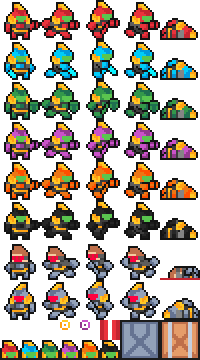
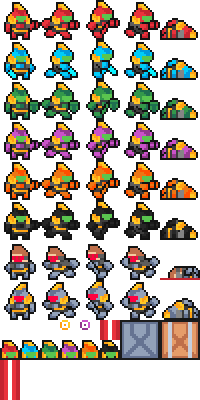
Added double beam

diff --git a/PhotonMan/src/sprites.java b/PhotonMan/src/sprites.java
@@ -19,8 +19,8 @@ public class sprites {
 	BufferedImage[] smallobj = new BufferedImage[5];
 	// 0 red 1 blue 2 green 3 purple 4 orange 5 black
 	BufferedImage[] icons = new BufferedImage[6];
-	// 0 metal box 1 wood box 2 laser
-	BufferedImage[] largeobj = new BufferedImage[3];
+	// 0 metal box 1 wood box 2 laser 3 double laser
+	BufferedImage[] largeobj = new BufferedImage[4];
 
 	public sprites() {
 		BufferedImage img = null;
@@ -47,6 +47,7 @@ public class sprites {
 		largeobj[0] = img.getSubimage(120, 320, 40, 40);
 		largeobj[1] = img.getSubimage(160, 320, 40, 40);
 		largeobj[2] = img.getSubimage(100, 320, 20, 20);
+		largeobj[3] = img.getSubimage(0, 360, 20, 40);
 		// chops up the sprite sheet into individual sprites then organizes them
 	}
 

diff --git a/PhotonMan/src/laser.java b/PhotonMan/src/laser.java
@@ -6,7 +6,7 @@ public class laser {
 
 	public laser(sprites sp, int x, int y) {
 		crateA = new crate(sp, x, y);
-		b = new beam(sp, x + 9, y + crateA.h + 2);
-		crateB = new crate(sp, x, b.y + b.h + 2);
+		b = new beam(sp, x + 9, y + crateA.h);
+		crateB = new crate(sp, x, b.y + b.h);
 	}
 }

diff --git a/PhotonMan/src/crate.java b/PhotonMan/src/crate.java
@@ -3,7 +3,7 @@ public class crate extends object {
 	int type;
 
 	public crate(sprites sp, int x, int y) {
-		super(sp, x, y, 36, 36);
+		super(sp, x, y, 40, 40);
 		// TODO Auto-generated constructor stub
 		type = (int) (Math.random() * 2);
 		currsp = sp.largeobj[type];

diff --git a/PhotonMan/src/beam.java b/PhotonMan/src/beam.java
@@ -1,9 +1,9 @@
 
 public class beam extends object {
 	public beam(sprites sp, int x, int y) {
-		super(sp, x, y, 18, 18);
+		super(sp, x, y, 20, 40);
 		// TODO Auto-generated constructor stub
-		currsp = sp.largeobj[2];
+		currsp = sp.largeobj[3];
 	}
 
 	@Override
